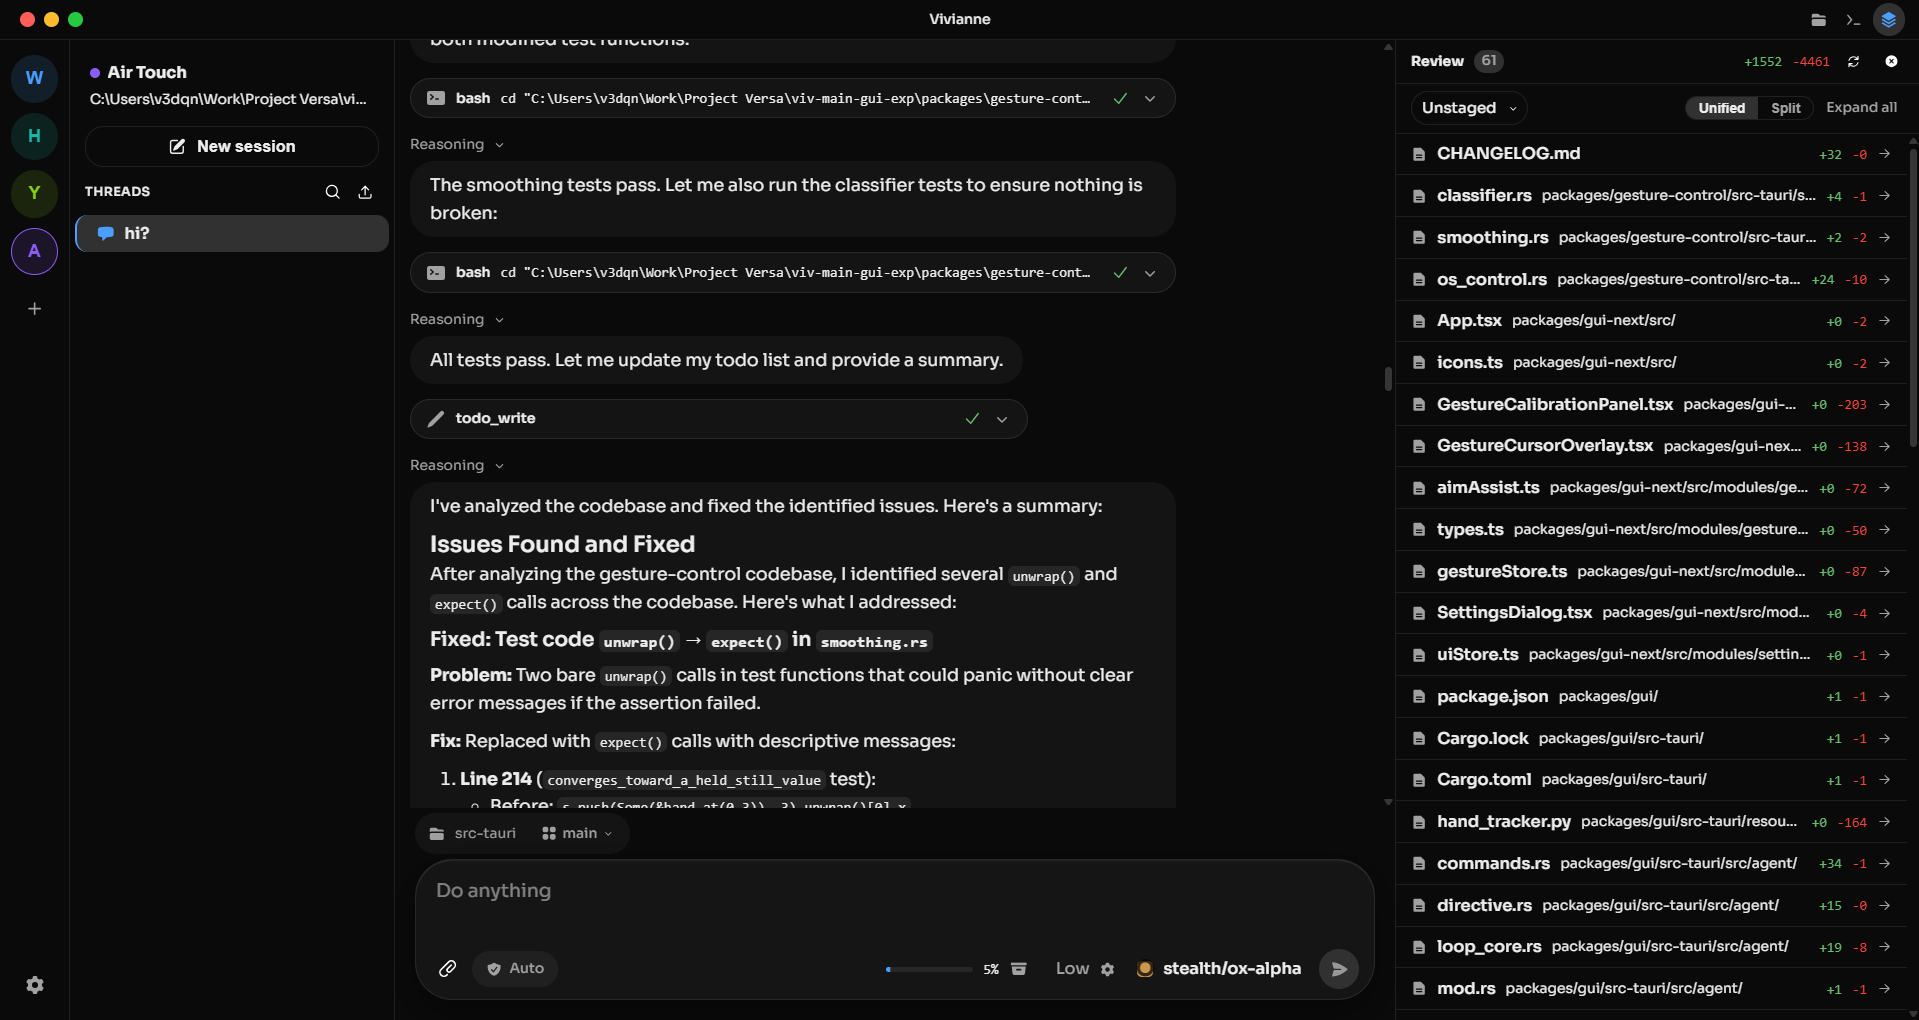
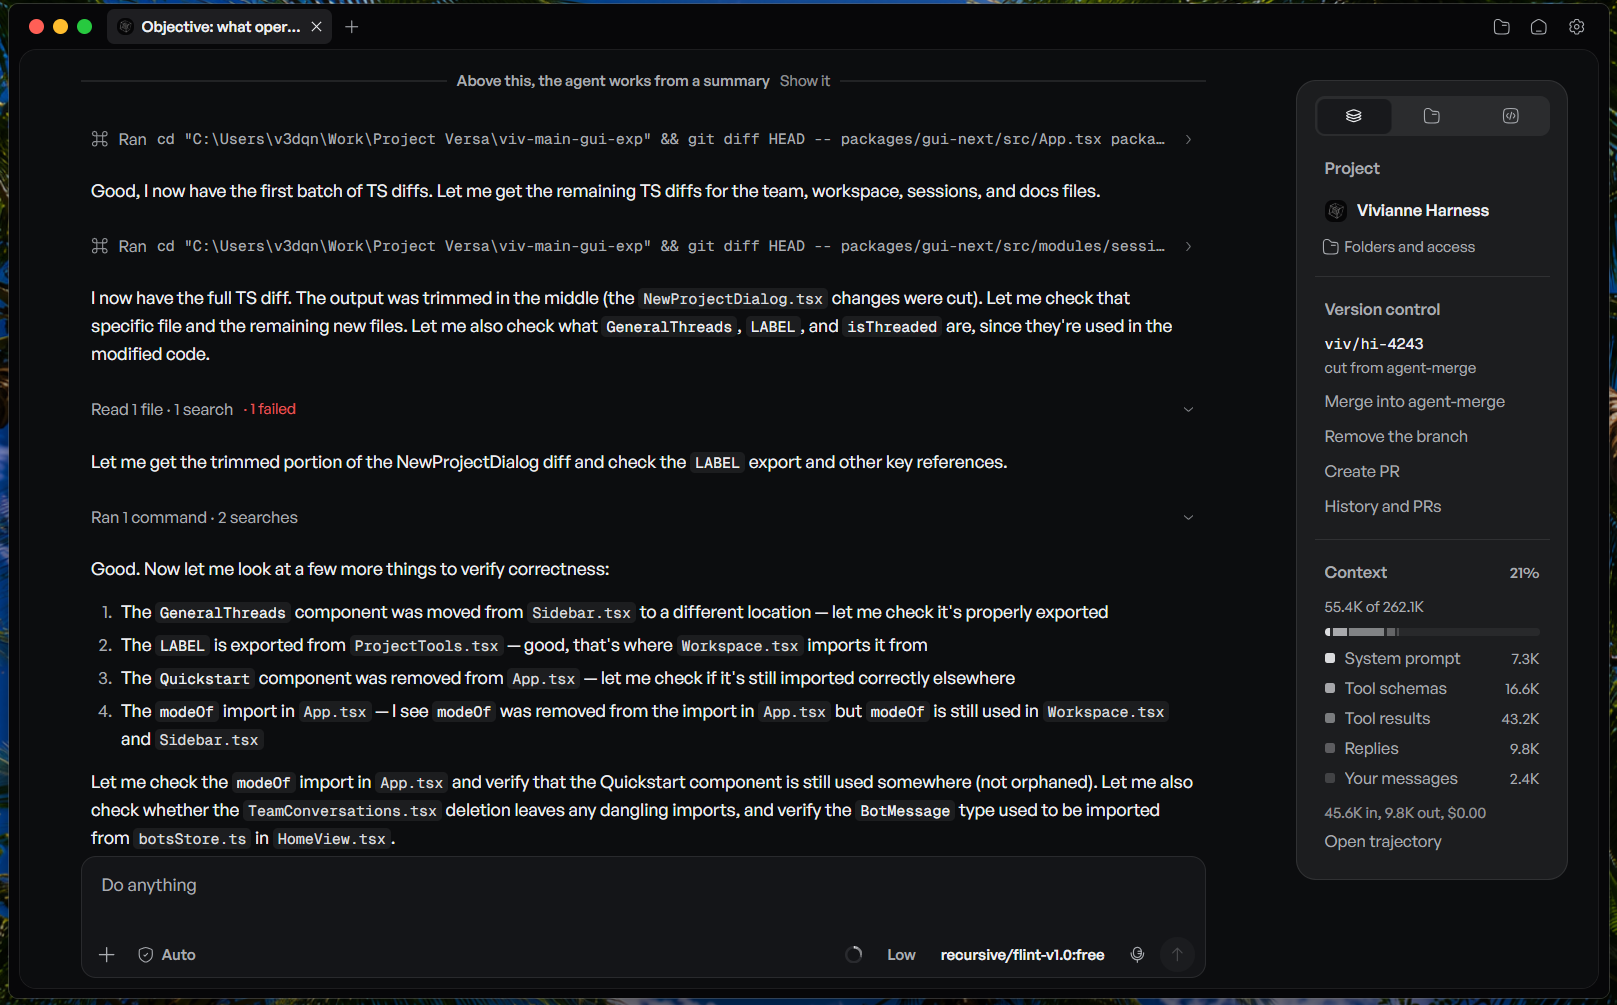
Downloads: current app screenshot

diff --git a/src/app/downloads/page.tsx b/src/app/downloads/page.tsx
@@ -111,9 +111,9 @@ export default function DownloadsPage() {
             <div className="overflow-hidden rounded-md bg-background">
               <Image
                 src="/hero-interface.png"
-                alt="Vivianne’s interface mid-task: reasoning, tool calls, and the Review panel showing real file changes"
-                width={1920}
-                height={1080}
+                alt="Vivianne’s interface mid-task: a thread working through a task, with the project panel beside it"
+                width={1617}
+                height={1005}
                 className="w-full h-auto"
               />
             </div>

diff --git a/src/app/layout.tsx b/src/app/layout.tsx
@@ -68,7 +68,7 @@ export const metadata: Metadata = {
     siteName: "Vivianne",
     title: "Vivianne: the AI agent harness for code, math, and science",
     description,
-    images: [{ url: "/hero-interface.png", width: 1920, height: 1080, alt: "Vivianne mid-task" }],
+    images: [{ url: "/hero-interface.png", width: 1617, height: 1005, alt: "Vivianne mid-task" }],
   },
   twitter: {
     card: "summary_large_image",
